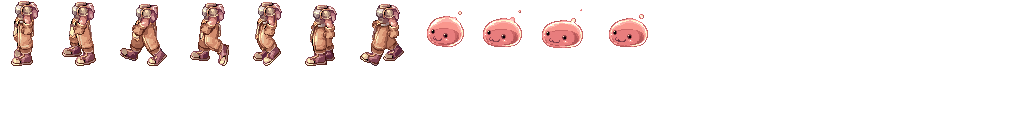
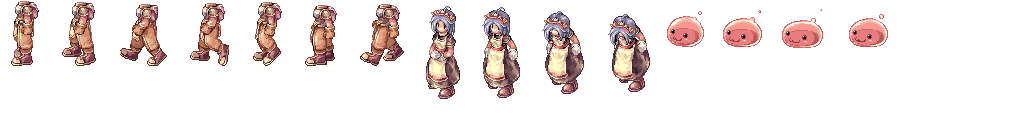
Añadimos colisiones y sprites de Kafra

Changed region(s): [[0.4062, 0.0625, 0.875, 0.7812]]

diff --git a/core/src/main/kotlin/com/cadena/ragnarok/system/EntitySpawnSystem.kt b/core/src/main/kotlin/com/cadena/ragnarok/system/EntitySpawnSystem.kt
@@ -3,6 +3,8 @@ package com.cadena.ragnarok.system
 import com.badlogic.gdx.graphics.g2d.TextureAtlas
 import com.badlogic.gdx.math.Vector2
 import com.badlogic.gdx.physics.box2d.BodyDef
+import com.badlogic.gdx.physics.box2d.BodyDef.BodyType.DynamicBody
+import com.badlogic.gdx.physics.box2d.BodyDef.BodyType.StaticBody
 import com.badlogic.gdx.physics.box2d.World
 import com.badlogic.gdx.scenes.scene2d.Event
 import com.badlogic.gdx.scenes.scene2d.EventListener
@@ -54,8 +56,11 @@ class EntitySpawnSystem(
                 }
 
                 //Carga de las físicas
-                physicCmpFromImage(phWorld, imageCmp.image, BodyDef.BodyType.DynamicBody){ phCmp, width, height ->
-                    box(width, height){
+                physicCmpFromImage(phWorld, imageCmp.image, cfg.bodyType){ phCmp, width, height ->
+                    val w = width*cfg.physicScaling.x
+                    val h = height*cfg.physicScaling.y
+
+                    box(w, h, cfg.physicOffset){
                         isSensor = false
                         //userData = "INTERACTION_SENSOR"
                     }
@@ -78,8 +83,21 @@ class EntitySpawnSystem(
 
     private fun spawnCfg(type:String):SpawnCfg = cachedCfgs.getOrPut(type){
         when (type) {
-            "novice_male" -> SpawnCfg(AnimationModel.NOVICE_MALE)
-            "poring" -> SpawnCfg(AnimationModel.PORING)
+            "novice_male" -> SpawnCfg(
+                AnimationModel.NOVICE_MALE,
+                physicScaling = vec2(0.9f, 1.2f),
+                physicOffset = vec2(0f, +10f*UNIT_SCALE)
+            )
+            "poring" -> SpawnCfg(
+                AnimationModel.PORING,
+                physicScaling = vec2(0.9f, 0.9f)
+            )
+            "npc_kafra" -> SpawnCfg(
+                AnimationModel.NPC_KAFRA,
+                speedScaling = 0f,
+                physicScaling = vec2(0.9f, 0.9f),
+                bodyType = StaticBody
+            )
             else -> gdxError("Type $type has no SpawnCfg setup.")
         }
     }

diff --git a/core/src/main/kotlin/com/cadena/ragnarok/system/PhysicSystem.kt b/core/src/main/kotlin/com/cadena/ragnarok/system/PhysicSystem.kt
@@ -1,6 +1,14 @@
 package com.cadena.ragnarok.system
 
 import com.badlogic.gdx.math.MathUtils
+import com.badlogic.gdx.physics.box2d.BodyDef
+import com.badlogic.gdx.physics.box2d.BodyDef.BodyType.StaticBody
+import com.badlogic.gdx.physics.box2d.BodyDef.BodyType.DynamicBody
+import com.badlogic.gdx.physics.box2d.Contact
+import com.badlogic.gdx.physics.box2d.ContactImpulse
+import com.badlogic.gdx.physics.box2d.ContactListener
+import com.badlogic.gdx.physics.box2d.Fixture
+import com.badlogic.gdx.physics.box2d.Manifold
 import com.badlogic.gdx.physics.box2d.World
 import com.cadena.ragnarok.component.ImageComponent
 import com.cadena.ragnarok.component.PhysicComponent
@@ -14,7 +22,11 @@ class PhysicSystem(
     private val phWorld: World,
     private val imageCmps: ComponentMapper<ImageComponent>,
     private val physicCmps: ComponentMapper<PhysicComponent>
-) : IteratingSystem(interval = Fixed(1 / 60f)) {
+) : ContactListener, IteratingSystem(interval = Fixed(1 / 60f)) {
+
+    init {
+        phWorld.setContactListener(this)
+    }
 
     override fun onUpdate() {
         if (phWorld.autoClearForces) {
@@ -55,6 +67,29 @@ class PhysicSystem(
                 MathUtils.lerp(prevY, bodyY, alpha) - height * 0.5f
             )
         }
+    }
+
+    override fun beginContact(contact: Contact?) {
+
+    }
+
+    override fun endContact(contact: Contact?) {
+
+    }
+
+    private fun Fixture.isStaticBody() = this.body.type == StaticBody
+    private fun Fixture.isDynamicBody() = this.body.type == DynamicBody
+
+    override fun preSolve(contact: Contact, oldMainfold: Manifold) {
+        contact.isEnabled = (contact.fixtureA.isStaticBody() && contact.fixtureB.isDynamicBody()) ||
+            (contact.fixtureA.isDynamicBody() && contact.fixtureB.isStaticBody())
+    }
+
+    override fun postSolve(
+        contact: Contact?,
+        impulse: ContactImpulse?
+    ) {
+
     }
 
     companion object {

diff --git a/core/src/main/kotlin/com/cadena/ragnarok/component/SpawnComponent.kt b/core/src/main/kotlin/com/cadena/ragnarok/component/SpawnComponent.kt
@@ -1,14 +1,19 @@
 package com.cadena.ragnarok.component
 
 import com.badlogic.gdx.math.Vector2
+import com.badlogic.gdx.physics.box2d.BodyDef.BodyType
+import com.badlogic.gdx.physics.box2d.BodyDef.BodyType.DynamicBody
 import ktx.math.vec2
 
 const val DEFAULT_SPEED = 3f
 
 data class SpawnCfg(
     val model: AnimationModel,
-    val speedScaling: Float = 1f
+    val speedScaling: Float = 1f,
     //Aquí irian los atributos de speed, attackDamage
+    val physicScaling: Vector2 = vec2(1f, 1f),
+    val physicOffset: Vector2 = vec2(0f, 0f),
+    val bodyType: BodyType = DynamicBody
 )
 
 data class SpawnComponent(

diff --git a/core/src/main/kotlin/com/cadena/ragnarok/component/AnimationComponent.kt b/core/src/main/kotlin/com/cadena/ragnarok/component/AnimationComponent.kt
@@ -4,7 +4,7 @@ import com.badlogic.gdx.graphics.g2d.Animation
 import com.badlogic.gdx.scenes.scene2d.utils.TextureRegionDrawable
 
 enum class AnimationModel{
-    NOVICE_MALE, PORING, UNDEFINED;
+    NOVICE_MALE, PORING, NPC_KAFRA, UNDEFINED;
 
     val atlasKey: String = this.toString().lowercase()
 }
